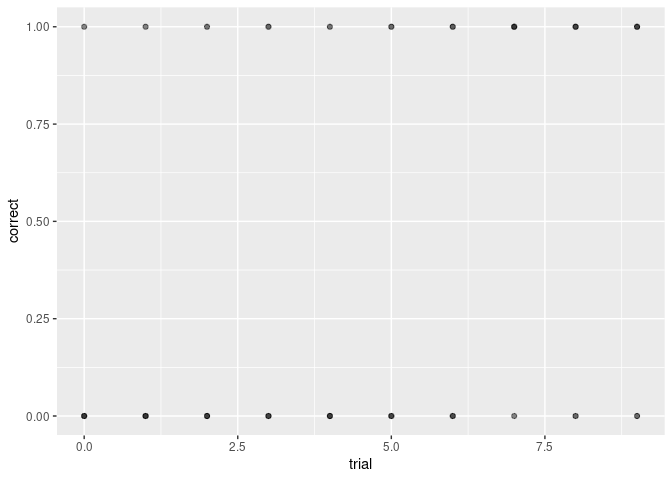
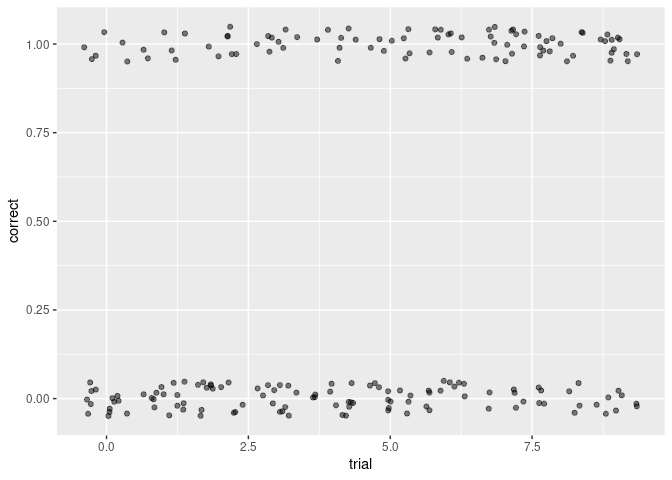
Add files via upload

diff --git a/plotting_continuous_interactions_lmer.md b/plotting_continuous_interactions_lmer.md
@@ -13,19 +13,11 @@ continuous interaction, this is continuous.
 
 ## Simulating data
 
-Let’s imagine an experiment that you’ve just designed. You have a
-population of birds (let’s say, great tits) that all have been banded
-with an RFID code, so you can identify individuals. You have feeders
-which have antennas that read their identity, and can give or deny
-access to the feeder, based on the identity of the bird. You split the
-birds into two groups, where Group A only has access to Feeder A, and
-Group B only has access to Feeder B. You’d like to test how quickly the
-birds learn, or, how the probability of choosing the “correct” feeder
-changes with each visit to the feeder.
-
-Let’s start by defining a vector of identities for individual birds. We
-will take advantage of R’s letters variable, which contains the entire
-lower case, English alphabet.
+We can simulate 20 individuals, each performing 10 trials at a given
+task. They will increase in proficiency, but the rate of increase
+depends on their rank. Also, each individual has a slightly different
+starting point, a random intercept, where some are at an advantage and
+some are at a disadvantage.
 
 ``` r
 n_individuals <- 20
@@ -64,9 +56,12 @@ correct <- rbinom(n_obs, size = 1, prob = prob_correct)
 df <- data.frame(id = as.factor(id), trial, rank, correct)
 ```
 
+Let’s plot the simulated datapoints, we can see the density of correct
+choices increases over time:
+
 ``` r
 ggplot(df, aes(x=trial, y=correct))+
-  geom_point(alpha=0.1)
+  geom_jitter(alpha=0.5, height=0.05)
 ```
 
 ![](plotting_continuous_interactions_lmer_files/figure-gfm/plot%20simulated%20data-1.png)<!-- -->
